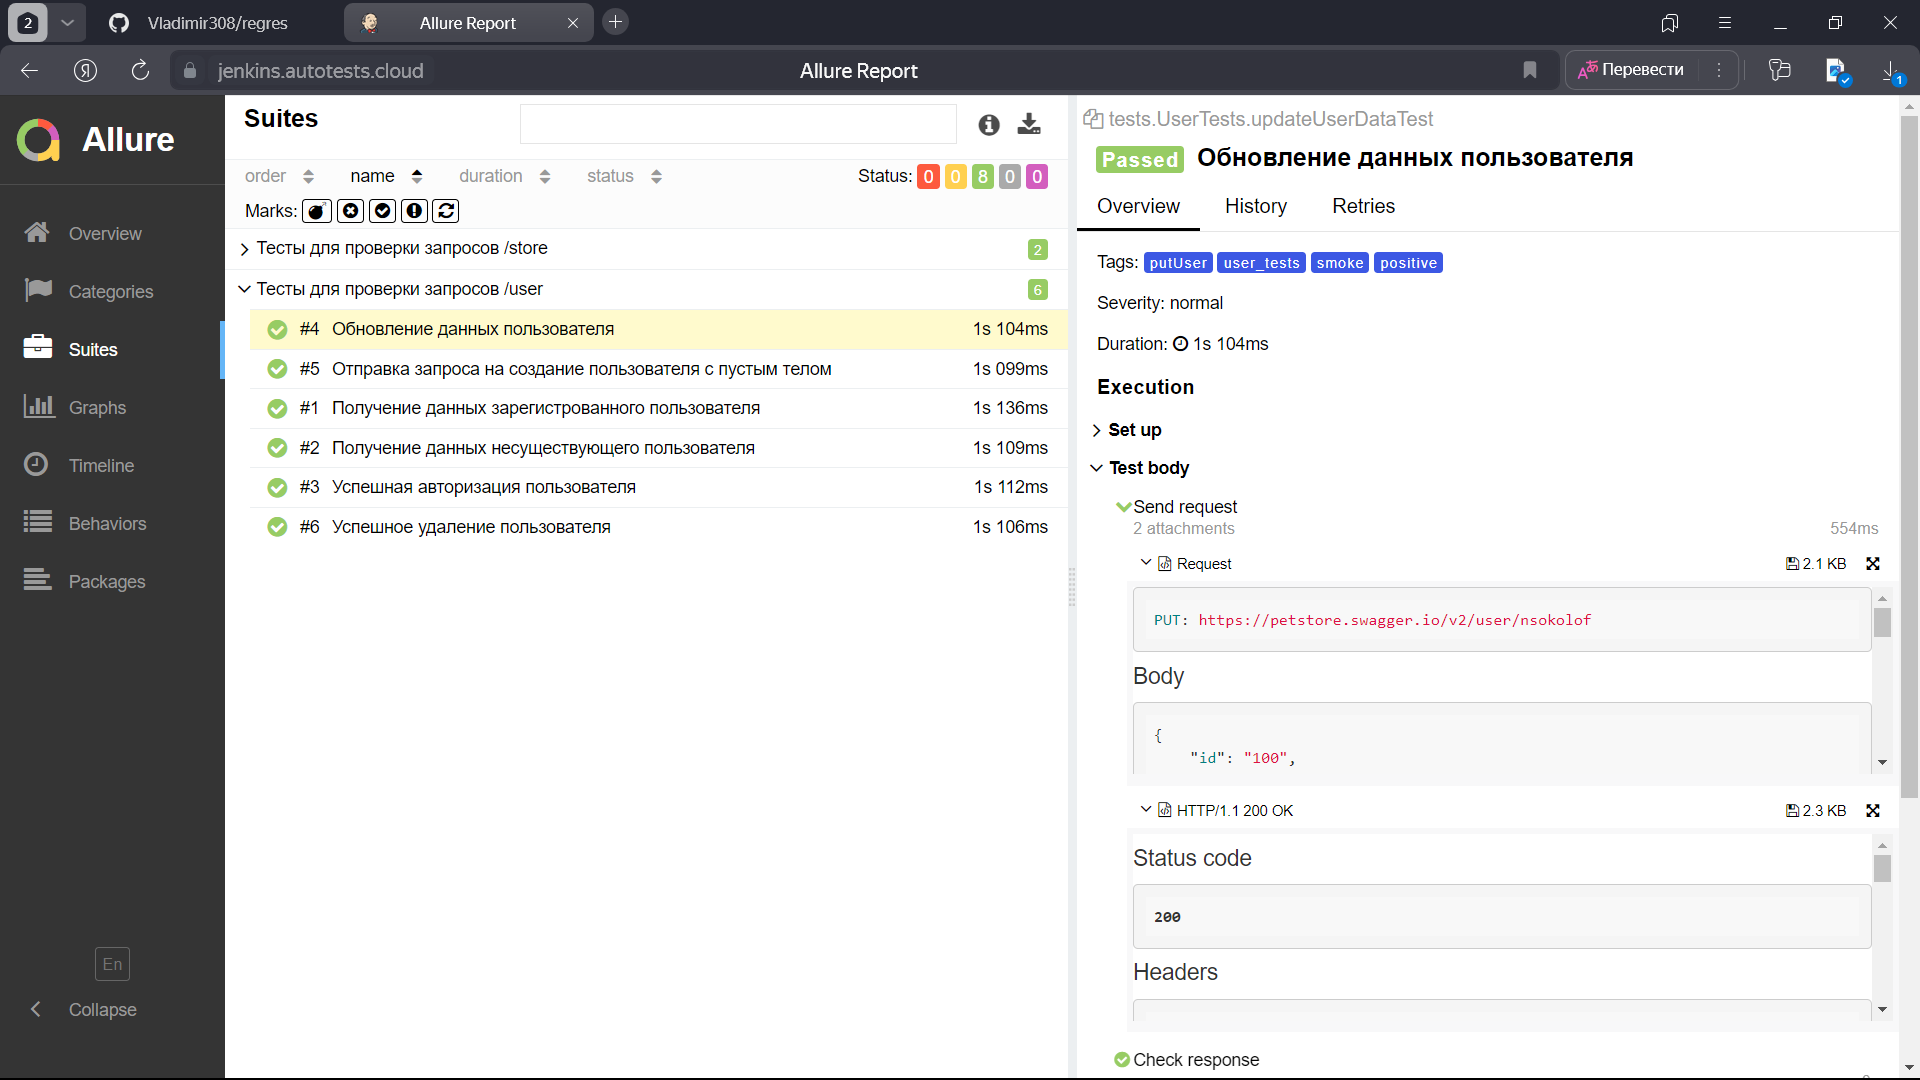
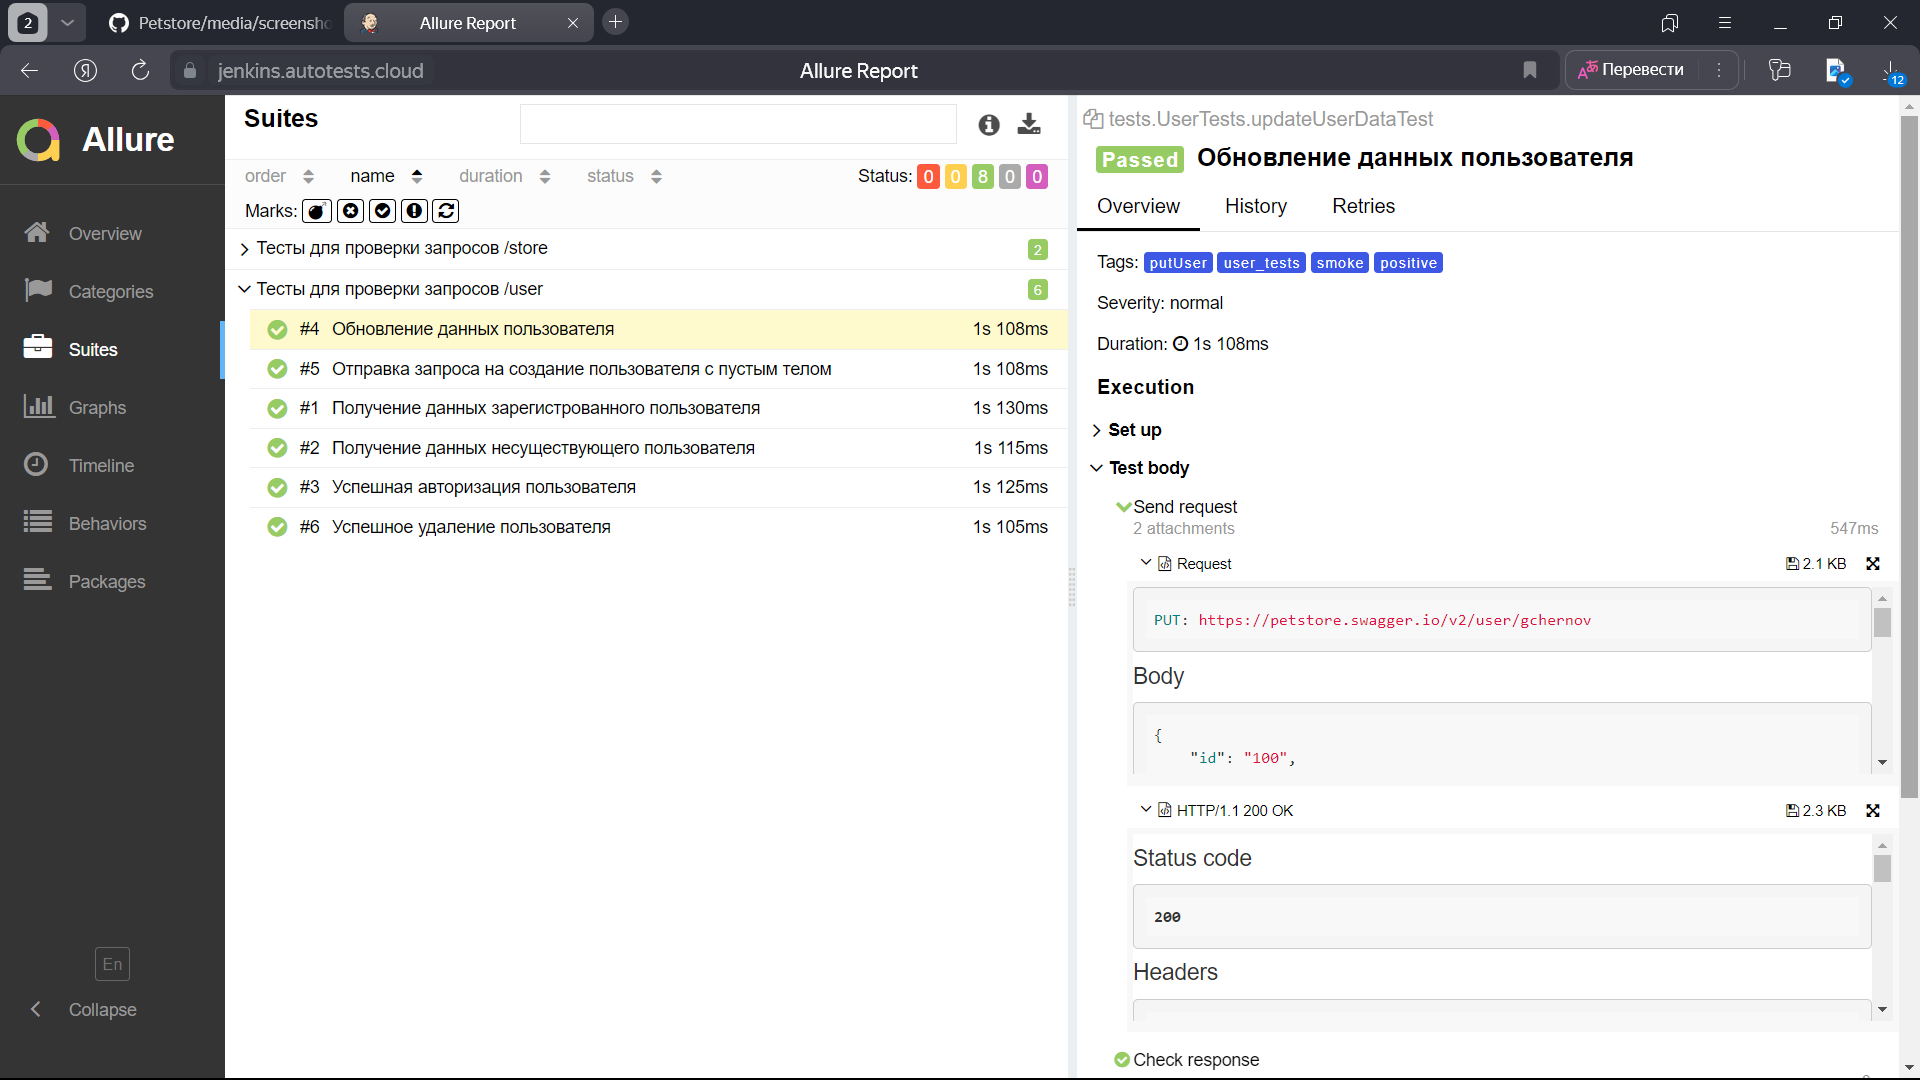
fix

diff --git a/README.md b/README.md
@@ -66,7 +66,7 @@ ____
 
 ____
 <p align="center">  
-<a href="https://jenkins.autotests.cloud/job/Regres/"><img src="media/screenshots/Jenkins.png" alt="Jenkins" width="950"/></a>  
+<a href="https://jenkins.autotests.cloud/job/Petstore/"><img src="media/screenshots/Jenkins.png" alt="Jenkins" width="950"/></a>  
 </p>
 
 ### **Параметры сборки в Jenkins:**
@@ -93,7 +93,7 @@ clean ${TASK}
 ___
 <a id="allure"></a>
 
-## <img alt="Allure" height="25" src="media/logo/AllureReports.png" width="25"/></a> <a name="Allure"></a>Allure [отчет](https://jenkins.autotests.cloud/job/Regres/1/allure/)</a>
+## <img alt="Allure" height="25" src="media/logo/AllureReports.png" width="25"/></a> <a name="Allure"></a>Allure [отчет](https://jenkins.autotests.cloud/job/Petstore/3/allure/)</a>
 
 ___
 
@@ -118,7 +118,7 @@ ___
 ___
 <a id="allure-testops"></a>
 
-## <img alt="Allure" height="25" src="media/logo/AllureTestOps.svg" width="25"/></a>Интеграция с <a target="_blank" href="https://allure.autotests.cloud/launch/43614">Allure TestOps</a>
+## <img alt="Allure" height="25" src="media/logo/AllureTestOps.svg" width="25"/></a>Интеграция с <a target="_blank" href="https://allure.autotests.cloud/launch/43618/">Allure TestOps</a>
 
 ____
 
